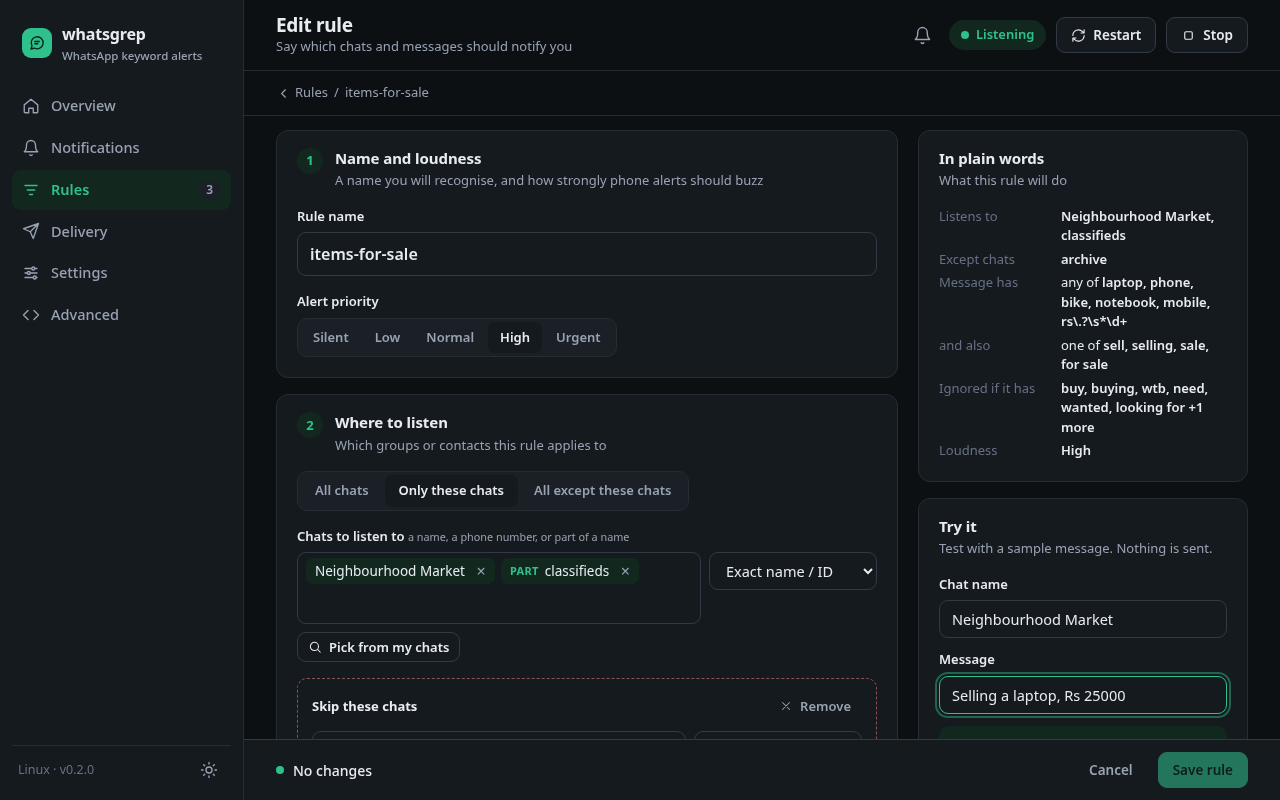
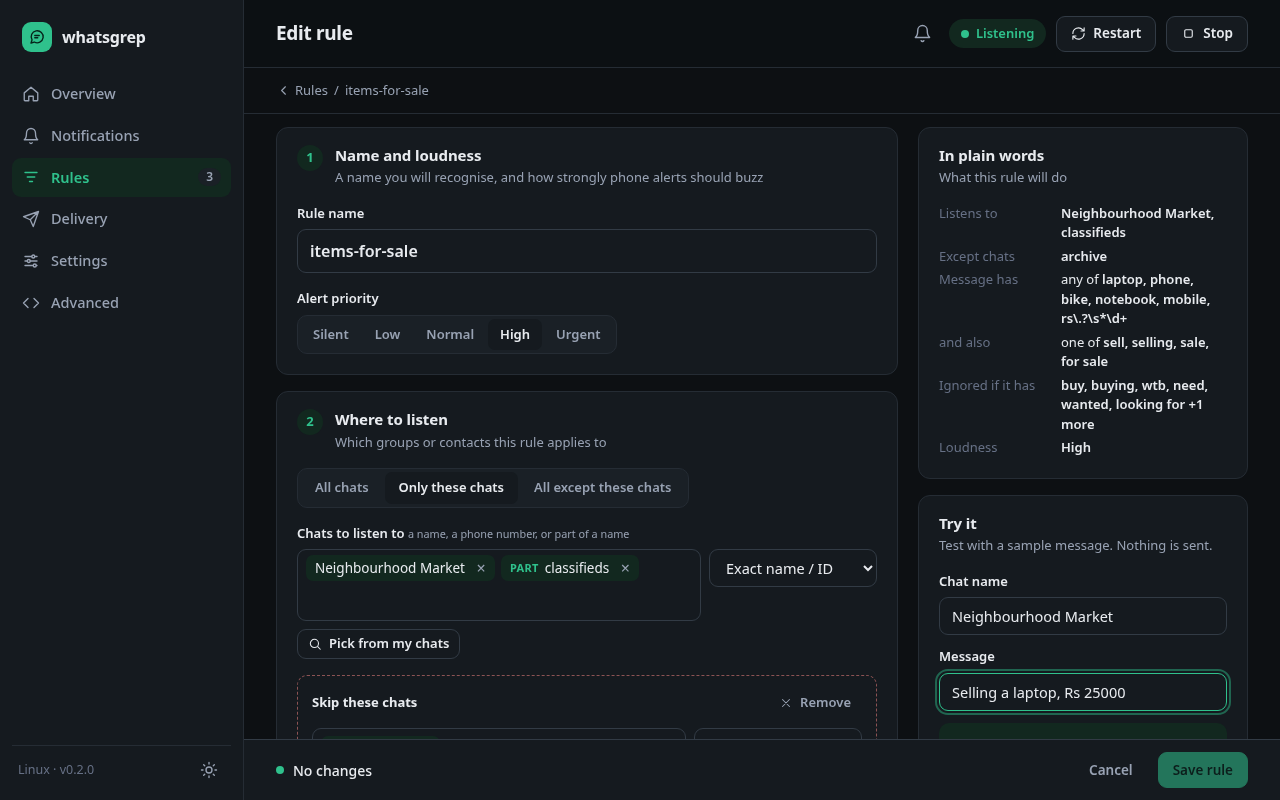
Remove page and brand subtitles from the control UI; refresh site screenshots

diff --git a/src/ui/index.html b/src/ui/index.html
@@ -338,14 +338,14 @@
 <body>
 <div class="app">
   <aside class="sidebar">
-    <div class="brand"><span class="mark" id="mark"></span><span>whatsgrep<small>WhatsApp keyword alerts</small></span></div>
+    <div class="brand"><span class="mark" id="mark"></span><span>whatsgrep</span></div>
     <nav class="nav" id="nav" aria-label="Sections"></nav>
     <div class="grow"></div>
     <div class="sidefoot"><span id="foot">local only</span><span class="spacer"></span><button class="btn ghost icon" id="theme" title="Switch light / dark" aria-label="Switch light or dark theme"></button></div>
   </aside>
   <div class="main">
     <header class="topbar">
-      <div class="titles"><h1 id="title"></h1><div class="sub" id="subtitle"></div></div>
+      <div class="titles"><h1 id="title"></h1></div>
       <div class="tools"><button class="btn ghost icon bell" id="bell" title="Notifications" aria-haspopup="true"></button><span class="tools" id="tools"></span></div>
     </header>
     <div class="content" id="content"></div>
@@ -560,7 +560,6 @@ function renderChrome() {
 
   const meta = TABS.find((t) => t[0] === tab);
   document.getElementById('title').textContent = editor ? (editor.index < 0 ? 'New rule' : 'Edit rule') : meta[1];
-  document.getElementById('subtitle').textContent = editor ? 'Say which chats and messages should notify you' : meta[3];
 
   const tools = document.getElementById('tools');
   if (!S) { tools.replaceChildren(); return; }
